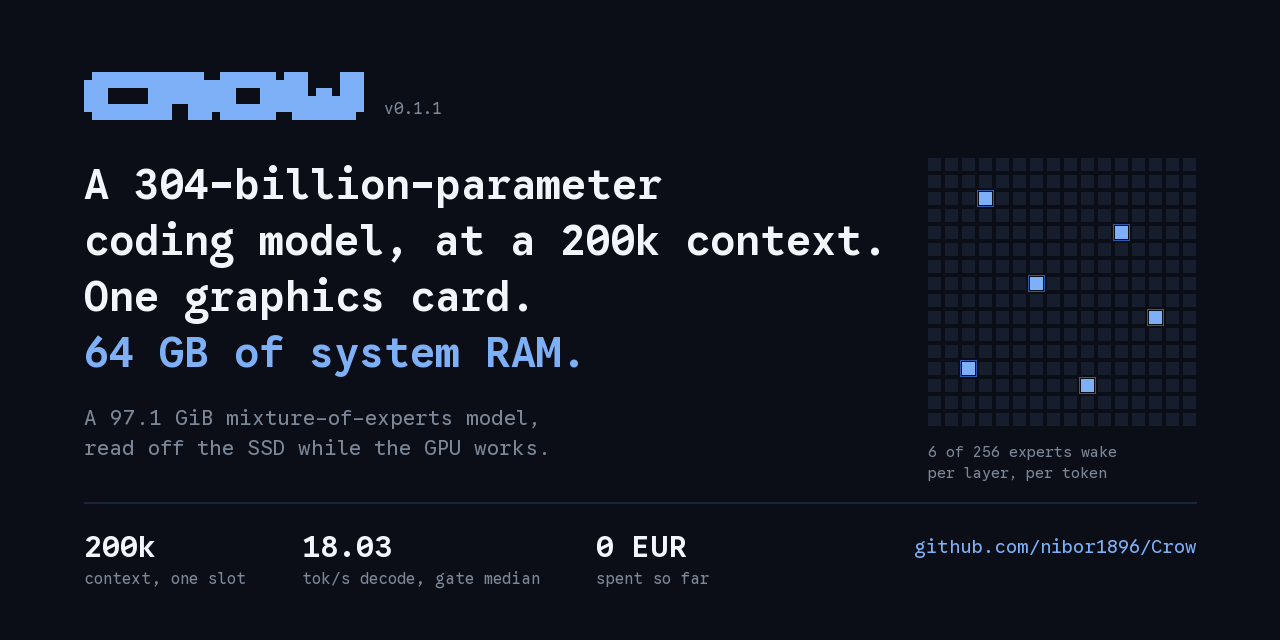
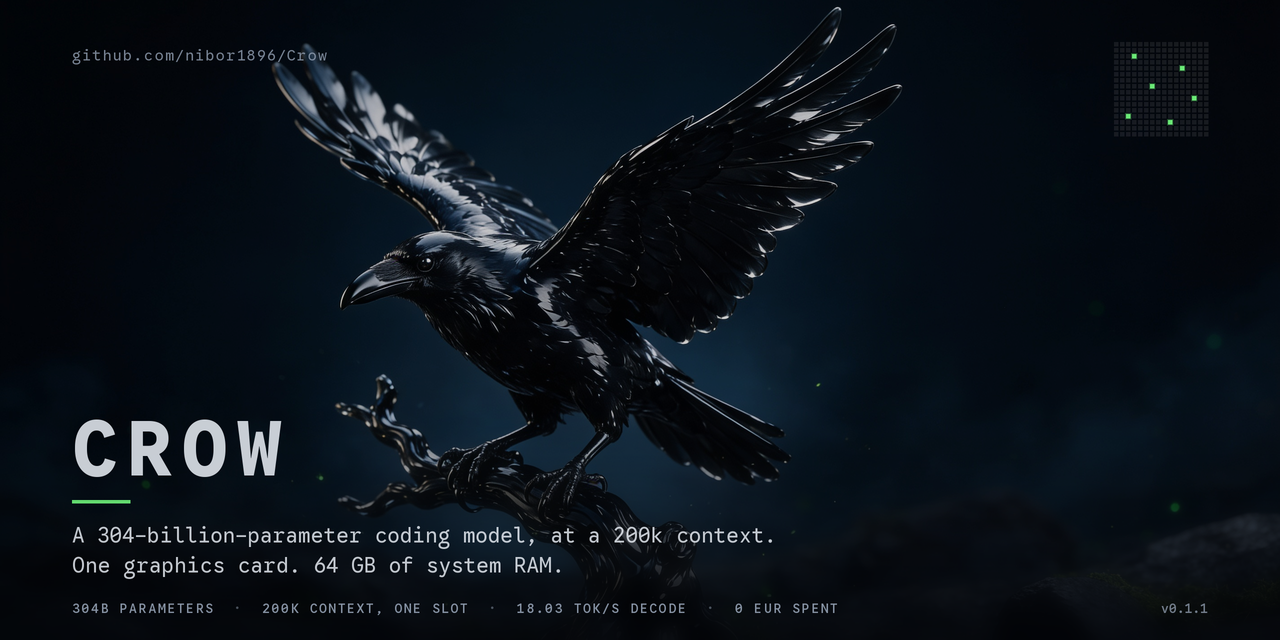
social card: the photograph carries it, the type gets out of the way
The drawn card did its job at full size and turned to grey mush in a feed. A
social preview is read at thumbnail size in under a second, so this one leads
with the raven and keeps four figures where they can still be read.

Three things hold it together:

  - Nothing is pasted on top. The type sits in a band that IS the photograph,
    blurred and darkened through a mask that fades to nothing upward. The ramp
    is eased above linear (t^1.6) on purpose: the tail and the branch reach
    into the top of the band, and a linear ramp softens them enough to read as
    a mistake rather than as depth. The whole visible transition lands on rock.
  - The accent is sampled, not picked. sample_accent() averages the top 0.05 %
    of pixels by green excess, which is the moss and the sparks and nothing
    else in an otherwise blue-black frame -- (107, 235, 119). Replace the
    photograph and the palette follows it.
  - The type draws at 82-94 % alpha with wide tracking. Solid white on a
    photograph reads as a sticker; leaving the grain faintly visible is what
    puts it in the image.

The 16x16 expert grid stays, with the 250 sleeping cells dropped to 20/255:
what has to survive a thumbnail is the six lit ones, not the field.

Byte-reproducible -- two consecutive renders give the same sha256, which is
what makes the card reviewable at all. Figures come from the README stat table
and the version from crow.VERSION, not from literals in a picture nobody greps.

diff --git a/docs/images/_social.py b/docs/images/_social.py
@@ -1,21 +1,29 @@
-"""Render the GitHub social preview card, 1280x640.
+"""Render the GitHub social preview card, 1280x640, from the raven photograph.
 
-A social card is read at thumbnail size, in a feed, in under a second. That rules
-out what the first two attempts did: one was a generic tech banner, the other a
-wall of 19px monospace that turns to grey mush the moment a feed scales it down.
+A social card is read at thumbnail size, in a feed, in under a second. The three
+attempts before this one each failed that differently: a generic tech banner, a
+wall of 19px monospace that turns to grey mush when a feed scales it down, and a
+drawn card that carried the idea but no image anyone would stop for.
 
-So this one carries four lines of large type, and beside them the one picture
-that IS the idea: 256 experts per layer, six of them awake. At full size it is a
-count; at thumbnail size it is a dark field with a few lit cells, which is what
-the product does. The wordmark comes from `cli/crow.py` rather than being
-retyped, and the colours are the ones the client asks the terminal for.
+So the photograph carries the card and the type gets out of its way. Three rules
+hold it together:
 
-EVERY NUMBER HERE IS THE README'S. The headline is its H3 verbatim and the
-figures are its stat table, because a card that drifts from the page it links to
-is worse than no card. The version is read from crow.VERSION for the same
-reason: the previous card shipped v0.0.3 into the 0.0.5 era, and it also still
-claimed "1.28 GiB of RAM" -- a figure that had since been retired and the number
-reused for the cost of a cache miss in milliseconds.
+  1. NOTHING IS PASTED ON TOP. The type sits in a band that is the photograph
+     itself, blurred and darkened with a mask that fades to nothing upward. A
+     flat black bar reads as a sticker; a defocused continuation of the picture
+     reads as depth. The band is where the rock already is, so nothing covers
+     the bird.
+  2. THE ACCENT IS SAMPLED, NOT PICKED. The moss and the sparks in the frame are
+     the only saturated thing in it, so the accent is measured off the image
+     rather than chosen beside it -- see `sample_accent`. Change the photograph
+     and the palette follows it.
+  3. THE TYPE IS SLIGHTLY TRANSPARENT. Pure white on a photograph looks stamped.
+     Everything here draws at 82-94 % alpha so the grain underneath stays
+     faintly visible, which is what makes it sit IN the image.
+
+EVERY NUMBER HERE IS THE README'S, and the version comes from `crow.VERSION`
+rather than being retyped: the card that shipped before v0.0.5 still claimed
+v0.0.3, because a literal in a picture is a literal nobody greps.
 
     python docs/images/_social.py
 """
@@ -23,57 +31,51 @@ reused for the cost of a cache miss in milliseconds.
 import sys
 from pathlib import Path
 
-from PIL import Image, ImageDraw, ImageFont
+from PIL import Image, ImageDraw, ImageFilter, ImageFont
 
 HERE = Path(__file__).resolve().parent
 REPO = HERE.parent.parent
 sys.path.insert(0, str(REPO / "cli"))
 
-import crow  # noqa: E402 - the single source of the wordmark
+import crow  # noqa: E402 - the single source of the version
 
+SRC = HERE / "Crow_social_new.jpg"
 OUT = HERE / "social-preview.png"
 FONT = REPO / "cli" / "fonts" / "GoogleSansCode[MONO,wght].ttf"
 
 W, H = 1280, 640
-M = 84                                   # margin, the same on every side
+SS = 2                                   # supersample, then LANCZOS down
+M = 72                                   # margin
 
-BG     = "#0b0e17"
-ACCENT = "#7eb0f8"
-BEVEL  = "#2c5bac"
-TEXT   = "#f2f5fa"
-MUTED  = "#7c8798"
-RULE   = "#1c2536"
-SLEEP  = "#161d2c"                       # an expert that is not awake this token
+TEXT  = (238, 243, 250)
+MUTED = (150, 163, 182)
 
-# README H3, verbatim, only re-wrapped. Four lines and not three since the H3 grew
-# its context clause: at a size a feed can still read, a monospaced face does not
-# fit "A 304-billion-parameter coding model, at a 200k context." on one line, and
-# the alternative -- paraphrasing the headline -- is how a card starts drifting
-# from the page it links to.
-HEAD_SIZE, HEAD_STEP = 42, 56
-HEAD = [("A 304-billion-parameter",          TEXT),
-        ("coding model, at a 200k context.", TEXT),
-        ("One graphics card.",               TEXT),
-        ("64 GB of system RAM.",             ACCENT)]
+# The band the type sits in. Everything below BAND_TOP is progressively
+# defocused and darkened; above it the photograph is untouched.
+BAND_TOP = 372
+BAND_BLUR = 10                           # radius at 1x, scaled by SS
+BAND_DARK = 0.84                         # peak darkening at the bottom edge
+BAND_EASE = 1.6                          # >1 holds the blur back, then commits
 
-SUB = ["A 97.1 GiB mixture-of-experts model,",
-       "read off the SSD while the GPU works."]
+# README H3, verbatim, re-wrapped to two lines.
+HEAD = ["A 304-billion-parameter coding model, at a 200k context.",
+        "One graphics card. 64 GB of system RAM."]
 
-# README stat table. Each is in the README with the issue it came from.
-FACTS = [("200k",  "context, one slot"),
-         ("18.03", "tok/s decode, gate median"),
-         ("0 EUR", "spent so far")]
+# README stat table, as one letterspaced strip. Read as texture at thumbnail
+# size and as figures at full size -- which is the only thing a fact row can
+# honestly do in a feed.
+FACTS = ["304B PARAMETERS", "200K CONTEXT, ONE SLOT",
+         "18.03 TOK/S DECODE", "0 EUR SPENT"]
 
-# 6 of 256, the README's own figure. Fixed rather than random so the card is
-# byte-reproducible -- a picture that changes on every run cannot be reviewed.
-# None of them sits on the outer ring: a lit cell carries a one-pixel halo, and
-# on the edge that halo is what pokes past the margin every other element keeps.
+# 6 of 256, the README's own figure, fixed rather than random so the card is
+# byte-reproducible. Kept off the outer ring: a lit cell carries a halo, and on
+# the edge that halo is what pokes past the margin everything else keeps.
 AWAKE = (35, 75, 118, 157, 194, 217)
-GRID = 16                                # 16 x 16 = the 256 experts of a layer
+GRID = 16
 
 
 def load(size, weight=400.0):
-    font = ImageFont.truetype(str(FONT), size)
+    font = ImageFont.truetype(str(FONT), size * SS)
     try:
         font.set_variation_by_axes([weight, 1.0])
     except Exception:
@@ -81,83 +83,171 @@ def load(size, weight=400.0):
     return font
 
 
-def wordmark(d, x, y, cell):
-    """The block art as filled cells. Glyphs leave seams; rectangles tile."""
-    rows = [ln for ln in crow.BANNER.splitlines() if ln.strip() and "{version}" not in ln]
-    indent = min(len(ln) - len(ln.lstrip()) for ln in rows)
-    rows = [ln[indent:] for ln in rows]
-    for r, line in enumerate(rows):
-        for c, glyph in enumerate(line):
-            if glyph == " ":
-                continue
-            colour = BEVEL if glyph == crow.BANNER_SHADE else ACCENT
-            x0, y0 = x + c * cell, y + r * cell
-            d.rectangle([x0, y0, x0 + cell - 1, y0 + cell - 1], fill=colour)
-    return len(rows[0]) * cell, len(rows) * cell
+def tracked(d, xy, text, font, fill, track=0.0):
+    """Draw with letterspacing. Pillow has no tracking, and at display sizes a
+    monospaced face without it looks cramped rather than deliberate."""
+    x, y = xy
+    for ch in text:
+        d.text((x, y), ch, font=font, fill=fill)
+        x += d.textlength(ch, font=font) + track * SS
+    return x - xy[0]
 
 
-def expert_grid(d, x, y, cell=13, gap=4):
-    """256 cells, six lit. The same blocky vocabulary as the wordmark."""
+def tracked_width(d, text, font, track=0.0):
+    return sum(d.textlength(c, font=font) + track * SS for c in text)
+
+
+def sample_accent(img):
+    """The greenest thing in the frame, normalised to a usable accent.
+
+    The photograph is almost entirely blue-black; the moss and the sparks are
+    the only saturated pixels in it. Averaging the top 0.05 % by green-excess
+    gives a colour that provably belongs to the image instead of one picked to
+    look good beside it. A fixed fallback keeps the card renderable if the
+    photograph is ever replaced by something with no green in it at all.
+    """
+    small = img.convert("RGB").resize((320, 160), Image.BILINEAR)
+    raw = small.tobytes()
+    px = [tuple(raw[i:i + 3]) for i in range(0, len(raw), 3)]
+    scored = sorted(px, key=lambda p: p[1] * 2 - p[0] - p[2], reverse=True)
+    top = scored[: max(1, len(px) // 2000)]
+    if top[0][1] * 2 - top[0][0] - top[0][2] < 40:
+        return (122, 214, 122)
+    r = sum(p[0] for p in top) // len(top)
+    g = sum(p[1] for p in top) // len(top)
+    b = sum(p[2] for p in top) // len(top)
+    # Lift it to label brightness without letting it drift off its own hue.
+    k = 235 / max(g, 1)
+    return (min(255, int(r * k)), min(255, int(g * k)), min(255, int(b * k)))
+
+
+def base_plate():
+    """Crop the photograph to 2:1 and grade it.
+
+    The frame is 16:9, so 2:1 costs 176 rows. They come off with an upward bias:
+    the wing tips are 85 px from the top and the bottom is rock, so trimming
+    evenly would clip the one silhouette the card exists for.
+    """
+    src = Image.open(SRC).convert("RGB")
+    sw, sh = src.size
+    ch = int(sw / 2)
+    top = int((sh - ch) * 0.35)
+    img = src.crop((0, top, sw, top + ch)).resize((W * SS, H * SS), Image.LANCZOS)
+
+    # A dark, cool base under everything: the JPEG's blacks sit around 12-16 and
+    # type at 82 % alpha needs them lower to hold contrast without a scrim.
+    img = Image.blend(img, Image.new("RGB", img.size, (4, 7, 13)), 0.18)
+    return img
+
+
+def frosted_band(img):
+    """Defocus and darken the lower band, with a mask that fades upward.
+
+    This is the whole trick of the card. The mask is a vertical ramp, blurred so
+    it has no visible start, so the transition happens over ~90 px of rock
+    instead of on a line. Nothing about it is a rectangle the eye can find.
+
+    The ramp is eased ABOVE linear on purpose. The bird's tail and the branch
+    reach into the top of the band, and a linear ramp softens them enough to
+    read as a mistake rather than as depth. Holding the blur back until the
+    lower third puts the whole visible transition on rock.
+    """
+    blurred = img.filter(ImageFilter.GaussianBlur(BAND_BLUR * SS))
+
+    ramp = Image.new("L", (1, H * SS), 0)
+    for y in range(H * SS):
+        t = (y - BAND_TOP * SS) / ((H - BAND_TOP) * SS)
+        ramp.putpixel((0, y), 0 if t <= 0 else int(255 * min(1.0, t ** BAND_EASE)))
+    mask = ramp.resize((W * SS, H * SS)).filter(ImageFilter.GaussianBlur(18 * SS))
+
+    img = Image.composite(blurred, img, mask)
+
+    dark = Image.new("RGB", img.size, (2, 4, 8))
+    dmask = mask.point(lambda v: int(v * BAND_DARK))
+    return Image.composite(dark, img, dmask)
+
+
+def vignette(img):
+    """Corner falloff, so the eye lands on the bird and not on an edge."""
+    m = Image.new("L", (W * SS, H * SS), 0)
+    ImageDraw.Draw(m).ellipse(
+        (-int(W * 0.30) * SS, -int(H * 0.42) * SS,
+         int(W * 1.30) * SS, int(H * 1.42) * SS), fill=255)
+    m = m.filter(ImageFilter.GaussianBlur(90 * SS))
+    return Image.composite(img, Image.new("RGB", img.size, (1, 2, 5)), m)
+
+
+def expert_grid(d, x, y, accent, cell=4, gap=2):
+    """256 cells, six lit -- the one picture that IS the idea, at the size a
+    thumbnail can carry: not a count, just a dark field with a few live points."""
     for i in range(GRID * GRID):
         r, c = divmod(i, GRID)
-        x0, y0 = x + c * (cell + gap), y + r * (cell + gap)
-        awake = i in AWAKE
-        d.rectangle([x0, y0, x0 + cell - 1, y0 + cell - 1],
-                    fill=ACCENT if awake else SLEEP)
-        if awake:
-            # A one-cell halo, so six dots survive a feed's downscale.
-            d.rectangle([x0 - 2, y0 - 2, x0 + cell + 1, y0 + cell + 1],
-                        outline=BEVEL, width=1)
-    span = GRID * (cell + gap) - gap
-    return span, span
+        x0, y0 = (x + c * (cell + gap)) * SS, (y + r * (cell + gap)) * SS
+        s = cell * SS
+        if i in AWAKE:
+            d.rectangle([x0 - SS, y0 - SS, x0 + s + SS, y0 + s + SS],
+                        fill=accent + (70,))
+            d.rectangle([x0, y0, x0 + s, y0 + s], fill=accent + (255,))
+        else:
+            # Faint enough to be texture rather than a grey tile in the sky:
+            # what has to survive a thumbnail is the six lit cells, not the 250.
+            d.rectangle([x0, y0, x0 + s, y0 + s], fill=(255, 255, 255, 20))
+    return GRID * (cell + gap) - gap
 
 
 def main() -> int:
-    if not FONT.exists():
-        print(f"missing typeface: {FONT}", file=sys.stderr)
-        return 2
+    for path, what in ((SRC, "photograph"), (FONT, "typeface")):
+        if not path.exists():
+            print(f"missing {what}: {path}", file=sys.stderr)
+            return 2
 
-    img = Image.new("RGB", (W, H), BG)
-    d = ImageDraw.Draw(img)
+    plate = base_plate()
+    accent = sample_accent(plate)
+    img = vignette(frosted_band(plate)).convert("RGBA")
 
-    mark_w, mark_h = wordmark(d, M, M - 12, 8)
-    d.text((M + mark_w + 20, M - 12 + mark_h - 22), f"v{crow.VERSION}",
-           font=load(16), fill=MUTED)
+    layer = Image.new("RGBA", img.size, (0, 0, 0, 0))
+    d = ImageDraw.Draw(layer)
 
-    head = load(HEAD_SIZE, 600.0)
-    y = M + 74
-    for i, (line, colour) in enumerate(HEAD):
-        d.text((M, y + i * HEAD_STEP), line, font=head, fill=colour)
+    # Top left: where the card goes when someone clicks it.
+    tracked(d, (M * SS, (M - 26) * SS), "github.com/nibor1896/Crow",
+            load(15), MUTED + (200,), track=1.1)
 
-    body = load(21)
-    for i, line in enumerate(SUB):
-        d.text((M, y + 246 + i * 30), line, font=body, fill=MUTED)
+    # Top right: the expert grid, in the empty sky beside the wing.
+    span = GRID * (4 + 2) - 2
+    expert_grid(d, W - M - span, M - 30, accent)
 
-    # The picture, right of the type and clear of it: the longest headline line
-    # ends near x=888 and the longest sub-line near x=550. Right-aligned to the
-    # same margin as the rule below, so the block has an edge to sit against.
-    span = GRID * (13 + 4) - 4
-    gx, gy = W - M - span, y
-    expert_grid(d, gx, gy)
-    caption = load(15)
-    for i, line in enumerate(("6 of 256 experts wake", "per layer, per token")):
-        d.text((gx, gy + span + 16 + i * 21), line, font=caption, fill=MUTED)
+    # The wordmark. 82 % alpha and wide tracking: at this size a solid white
+    # word reads as a sticker laid on the photograph rather than part of it.
+    mark = load(76, 700.0)
+    tracked(d, (M * SS, 402 * SS), "CROW", mark, TEXT + (214,), track=9)
 
-    d.line([(M, H - 138), (W - M, H - 138)], fill=RULE, width=2)
+    # A short accent rule, sampled from the moss, keyed to the wordmark's left
+    # edge -- the only saturated element on the card.
+    d.rectangle([M * SS, 500 * SS, (M + 58) * SS, (500 + 3) * SS],
+                fill=accent + (235,))
 
-    big, small = load(30, 600.0), load(16)
-    x = M
-    for value, label in FACTS:
-        d.text((x, H - 112), value, font=big, fill=TEXT)
-        d.text((x, H - 72),  label, font=small, fill=MUTED)
-        x += max(d.textlength(value, font=big), d.textlength(label, font=small)) + 56
+    head = load(21)
+    for i, line in enumerate(HEAD):
+        d.text((M * SS, (522 + i * 30) * SS), line, font=head, fill=TEXT + (206,))
 
-    url = load(19)
-    d.text((W - M - d.textlength("github.com/nibor1896/Crow", font=url), H - 106),
-           "github.com/nibor1896/Crow", font=url, fill=ACCENT)
+    # The fact strip. Letterspaced small caps with a dim separator, so it reads
+    # as one texture at thumbnail size and as four figures at full size.
+    small = load(13, 500.0)
+    x = M * SS
+    for i, fact in enumerate(FACTS):
+        if i:
+            x += tracked(d, (x, 600 * SS), "  ·  ", small, MUTED + (120,), track=1.6)
+        x += tracked(d, (x, 600 * SS), fact, small, MUTED + (225,), track=1.6)
 
-    img.save(OUT, optimize=True)
-    print(f"wrote {OUT}  {img.size[0]}x{img.size[1]}")
+    ver = load(13, 500.0)
+    vtxt = f"v{crow.VERSION}"
+    d.text(((W - M) * SS - tracked_width(d, vtxt, ver), 600 * SS),
+           vtxt, font=ver, fill=MUTED + (190,))
+
+    out = Image.alpha_composite(img, layer).convert("RGB")
+    out = out.resize((W, H), Image.LANCZOS)
+    out.save(OUT, optimize=True)
+    print(f"wrote {OUT}  {out.size[0]}x{out.size[1]}  accent {accent}")
     return 0
 
 
